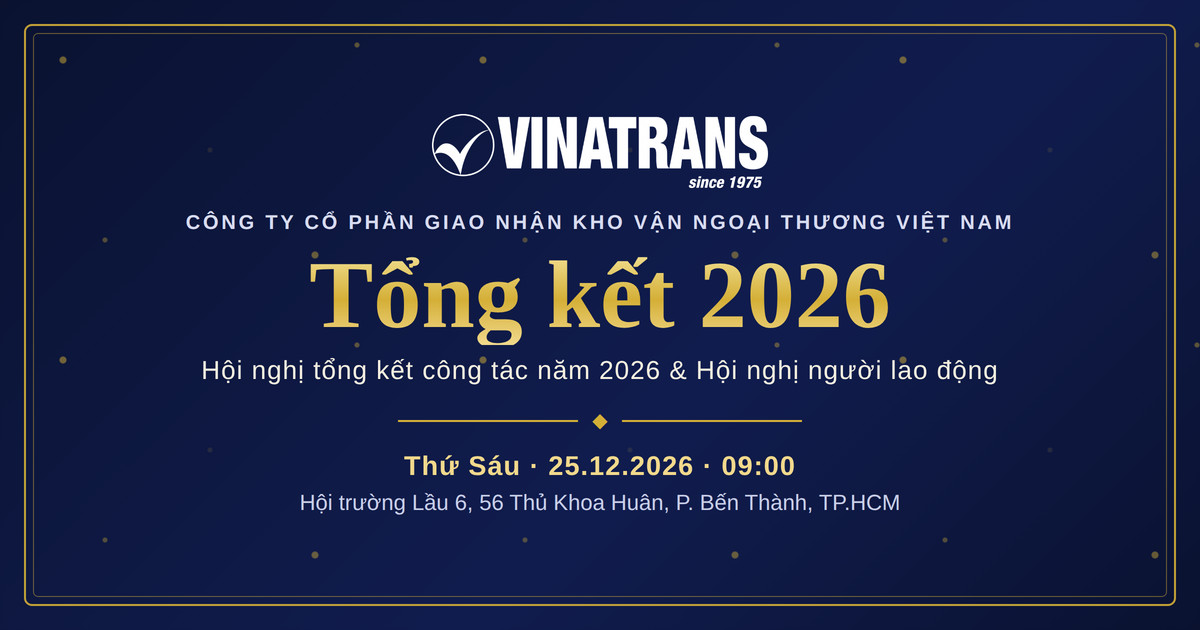
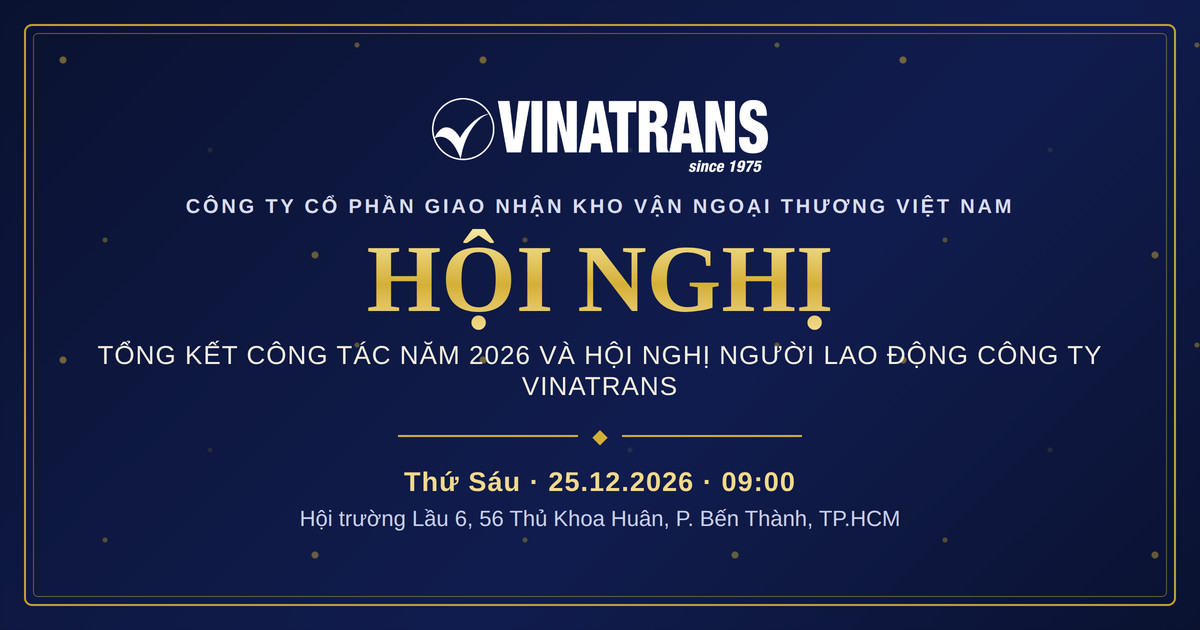
gen_360: hero theo nội dung thiệp giấy — tiêu đề HỘI NGHỊ + dòng phụ tổng kết 2026, giữ nguyên thiết kế; đồng bộ phong bì + og-cover (?v=2)

Changed region(s): [[0.0617, 0.1508, 0.925, 0.6333], [0.2467, 0.6635, 0.7708, 0.8444]]

diff --git a/products/Invitation/Other/gen_360_vinatrans-tong-ket-2026-cao-cap/index.html b/products/Invitation/Other/gen_360_vinatrans-tong-ket-2026-cao-cap/index.html
@@ -10,7 +10,7 @@
 <meta property="og:site_name" content="Templexa">
 <meta property="og:title" content="Hội nghị Tổng kết công tác năm 2026 &amp; Hội nghị Người lao động — Vinatrans">
 <meta property="og:description" content="9 giờ 00, Thứ Sáu ngày 25 tháng 12 năm 2026 · Hội trường Lầu 6, 56 Thủ Khoa Huân, P. Bến Thành, TP.HCM.">
-<meta property="og:image" content="./og-cover.jpg?v=1">
+<meta property="og:image" content="./og-cover.jpg?v=2">
 <meta property="og:image:width" content="1200">
 <meta property="og:image:height" content="630">
 <link rel="preconnect" href="https://fonts.googleapis.com">
@@ -32,7 +32,7 @@
     <div class="back"></div>
     <div class="letter">
       <p class="l-label">Hội nghị tổng kết</p>
-      <p class="l-names">Tổng kết 2026</p>
+      <p class="l-names">Hội nghị 2026</p>
       <p class="l-date">25.12.2026 · 9:00</p>
     </div>
     <div class="pocket"></div>
@@ -49,9 +49,8 @@
   <div class="hero-frame" aria-hidden="true"></div>
   <div class="hero-logo hi" style="--d:.1s"><img src="images/logo.png" alt="Vinatrans — Since 1975"></div>
   <p class="hero-company hi" style="--d:.2s">Công ty Cổ phần Giao nhận Kho vận<br>Ngoại thương Việt Nam</p>
-  <p class="label hi" style="--d:.3s">Hội nghị · Tổng kết năm 2026</p>
-  <h1 class="hero-title gold-text hi" style="--d:.42s">Tổng kết<br>2026</h1>
-  <p class="hero-event hi" style="--d:.55s">Hội nghị Tổng kết công tác năm 2026<br>và Hội nghị Người lao động<br>Công ty Vinatrans</p>
+  <h1 class="hero-title gold-text hi" style="--d:.42s">HỘI NGHỊ</h1>
+  <p class="hero-event hi" style="--d:.55s">TỔNG KẾT CÔNG TÁC NĂM 2026<br>VÀ HỘI NGHỊ NGƯỜI LAO ĐỘNG<br>CÔNG TY VINATRANS</p>
   <div class="hero-rule hi" style="--d:.65s"><span></span><i></i><span></span></div>
   <div class="hero-date hi" style="--d:.72s"><span>Thứ Sáu</span><b>25.12.2026</b><span>9 giờ 00</span></div>
   <p class="hero-place hi" style="--d:.85s">Hội trường Lầu 6, 56 Thủ Khoa Huân,<br>P. Bến Thành, TP.HCM</p>

diff --git a/products/Invitation/Other/gen_360_vinatrans-tong-ket-2026-cao-cap/og-cover.html b/products/Invitation/Other/gen_360_vinatrans-tong-ket-2026-cao-cap/og-cover.html
@@ -44,8 +44,8 @@
   <div class="inner">
     <img class="logo" src="images/logo.png" alt="VINATRANS">
     <p class="co">CÔNG TY CỔ PHẦN GIAO NHẬN KHO VẬN NGOẠI THƯƠNG VIỆT NAM</p>
-    <h1>Tổng kết 2026</h1>
-    <p class="sub">Hội nghị tổng kết công tác năm 2026 &amp; Hội nghị người lao động</p>
+    <h1>HỘI NGHỊ</h1>
+    <p class="sub">TỔNG KẾT CÔNG TÁC NĂM 2026 VÀ HỘI NGHỊ NGƯỜI LAO ĐỘNG CÔNG TY VINATRANS</p>
     <div class="rule"><span>◆</span></div>
     <p class="when">Thứ Sáu · 25.12.2026 · 09:00</p>
     <p class="where">Hội trường Lầu 6, 56 Thủ Khoa Huân, P. Bến Thành, TP.HCM</p>
